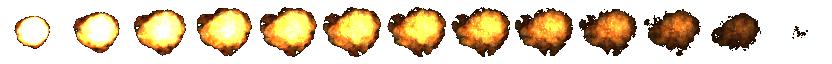
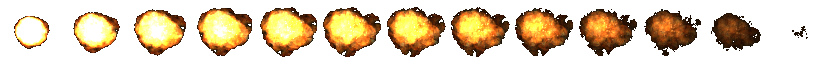
almost rdy

diff --git a/EpicGame/src/epicgame/EpicGame.java b/EpicGame/src/epicgame/EpicGame.java
@@ -10,6 +10,7 @@ import java.awt.image.BufferStrategy;
 import java.awt.image.BufferedImage;
 import java.io.File;
 import java.io.IOException;
+import java.util.Random;
 import java.util.logging.Level;
 import java.util.logging.Logger;
 import javax.imageio.ImageIO;
@@ -21,7 +22,7 @@ public class EpicGame extends Canvas implements Runnable {
     public volatile boolean running=false;
     public int update_count;
     
-    public static final int Widht=1200;
+    public static final int Widht=1024;
     public static final int Height=(Widht*9)/16;
    
   
@@ -30,7 +31,7 @@ public class EpicGame extends Canvas implements Runnable {
     static public JFrame frame;
     
 
-    private int max_player_ammo=5;
+    private int max_player_ammo=10;
     private int max_ast_count=3;
     private int max_exp_count=50;
     
@@ -45,8 +46,6 @@ public class EpicGame extends Canvas implements Runnable {
     int br=0;
     int delay=0;
     
-    //BufferedImage ExplosionFrame = new BufferedImage(Widht,Height, BufferedImage.TYPE_INT_RGB);
-            
     
     public static int score=0;
     
@@ -87,27 +86,22 @@ public class EpicGame extends Canvas implements Runnable {
         BufferedImage explosion_image=new BufferedImage(100,100, BufferedImage.TYPE_INT_RGB);
         
         try {
+            
             Background = ImageIO.read(new File("images\\background.jpg"));
-            player_image = ImageIO.read(new File("images\\player.jpg"));
+            player_image = ImageIO.read(new File("images\\player.png"));
             laser_image = ImageIO.read(new File("images\\projectile.png"));
-            asteroid_image = ImageIO.read(new File("images\\asteroid.jpg"));
+            asteroid_image = ImageIO.read(new File("images\\ast.png"));
             explosion_image = ImageIO.read(new File("images\\Splosion.png"));
            
         } catch (IOException ex) {
             Logger.getLogger(EpicGame.class.getName()).log(Level.SEVERE, null, ex);
         }
         
-        player=new Player(0,0,100,100,560,300,1,1,5,player_image);      
+        player=new Player(0,0,80,80,100,100,30,4,max_player_ammo,player_image);      
         
-        //int x,int y,int w,int h,int image_w,int image_h, int delay,int frames,int max_ammo,BufferedImage image)
-        
-        
-        
-        lasers=new Lasers(player.max_ammo,player.w/3,player.h/3,256,256,1,1,player,laser_image);
-        
-        rocks=new Rocks(max_ast_count,100,100,259,149,2,2,asteroid_image);
-        
-        explosions=new Explosions(max_exp_count,100,100,64,64,60,13,explosion_image);
+        lasers=new Lasers(player.max_ammo,55,20,55,20,30,7,player,laser_image);
+        rocks=new Rocks(max_ast_count,100,100,64,64,30,64,asteroid_image);
+        explosions=new Explosions(max_exp_count,100,100,64,64,30,13,explosion_image);
     }
     
     
@@ -127,6 +121,8 @@ public class EpicGame extends Canvas implements Runnable {
                
         //Controls handling
         //Player movement
+        player.update(0,0);
+        
         if (input.up.is_pressed())
         {
             player.update(0,-1); 
@@ -153,11 +149,12 @@ public class EpicGame extends Canvas implements Runnable {
             lasers.spawn_laser();
         }
         
-  //      if(update_count%200==0)
-//            rocks.spawn_rock();
+        Random r=new Random();
+        if(update_count%200==0)
+            rocks.spawn_rock(1000,r.nextInt(800) );
 
         lasers.advance_lasers();
-        rocks.advance_rocks();
+        rocks.update();
         explosions.update();
         
         detect_laser_rock_collision();
@@ -187,6 +184,7 @@ public class EpicGame extends Canvas implements Runnable {
        
         //BACKGROUND
         a.drawImage(Background, 0, 0, frame.getWidth(), frame.getHeight(),null);
+        //a.drawImage(rocks.image, 0, 0, 4000, 64,null);
         a.setColor(Color.yellow);
        
         //Painting important stuff
@@ -194,6 +192,8 @@ public class EpicGame extends Canvas implements Runnable {
         lasers.paint(a);
         rocks.paint(a);
         explosions.paint(a);
+        
+            
         
          //TEXT AND STUFF 
         a.setFont(new Font("serif",10,40));
@@ -244,6 +244,7 @@ public class EpicGame extends Canvas implements Runnable {
             {
                 updates++;
                 update();
+               
                 delta--; 
             }
             

diff --git a/EpicGame/src/epicgame/Rocks.java b/EpicGame/src/epicgame/Rocks.java
@@ -12,12 +12,13 @@ import java.util.Random;
  * @author Peter
  */
 public class Rocks extends Collection_Of_Space_Objects {
+
     
         
     Rocks(int max_count,int w,int h,int image_w,int image_h, int delay,int frames,BufferedImage image)
     {
         this.max_count=max_count;
-        m=new Projectile[max_count];
+        m=new Asteroid[max_count];
         
         this.w=w;
         this.h=h;
@@ -31,38 +32,42 @@ public class Rocks extends Collection_Of_Space_Objects {
         this.image=image;
     }
     
-   
-    public void spawn_rock()
+    private int get_free_rock()
     {
-        int i=get_free_object_index();
+        int i;
         
-        Random r=new Random();
+        for( i=0;i<max_count;i++)
+            if(m[i]==null)
+                break;
         
+        if(i==max_count)
+            return -1;
+        
+        else return i;
+        
+        
+    }
+    
+    public void spawn_rock(int x,int y)
+    {
+        int i=get_free_rock();
         if(i!=-1)
         {
-            m[i]=new Asteroid(EpicGame.Widht+100, r.nextInt(EpicGame.Height), w, h, image_w, image_h, delay, frames, image);
+            m[i]=new Asteroid(x, y, w, h, image_w, image_h, delay, frames, image);
         }
     }
     
     
-    public void advance_rocks()
+    public void update()
     {
-        int i;
-        int n=max_count;
-    
-         for(i=0;i<n;i++)
-       {
+        for(int i=0;i<max_count;i++)
             if(m[i]!=null)
-            {   
-                m[i].update(1,0);
-                
-                if(m[i].x > EpicGame.Widht + 1000)
-                {
+            {
+                m[i].update(-1,0);
+                if(m[i].x<0)
                     m[i]=null;
-                }
-            }
-       }
-    } 
-    }  
+            }   
+    }
+}  
     
 

diff --git a/EpicGame/src/epicgame/Explosions.java b/EpicGame/src/epicgame/Explosions.java
@@ -11,26 +11,14 @@ import java.awt.image.BufferedImage;
  *
  * @author Peter
  */
-public class Explosions {
+public class Explosions extends Collection_Of_Space_Objects{
     
-    public Explosion m[];
-    int e_count;
     
-    public int w,h;
     
-    public int image_w,image_h;
-    
-    protected BufferedImage image;
-    
-    int counter=0;
-    int frames;
-    int br=0;
-    int delay;
-    
-    Explosions(int e_count,int w,int h,int image_w,int image_h, int delay,int frames,BufferedImage image)
+    Explosions(int max_count,int w,int h,int image_w,int image_h, int delay,int frames,BufferedImage image)
     {
-        this.e_count=e_count;
-        m=new Explosion[e_count];
+        this.max_count=max_count;
+        m=new Explosion[max_count];
         
         this.w=w;
         this.h=h;
@@ -48,11 +36,11 @@ public class Explosions {
     {
         int i;
         
-        for( i=0;i<e_count;i++)
+        for( i=0;i<max_count;i++)
             if(m[i]==null)
                 break;
         
-        if(i==e_count)
+        if(i==max_count)
             return -1;
         
         else return i;
@@ -69,24 +57,15 @@ public class Explosions {
         }
     }
     
-    public void paint(Graphics a)
-    {
-        for(int i=0;i<e_count;i++)
-            if(m[i]!=null)
-                m[i].paint(a);   
-    }
     
     public void update()
     {
-        for(int i=0;i<e_count;i++)
+        for(int i=0;i<max_count;i++)
             if(m[i]!=null)
             {
-                m[i].update();
-                if(m[i].br==m[i].frames)
+                m[i].update(-1,0);
+                if(m[i].br==m[i].frames-1)
                     m[i]=null;
             }   
     }
-    
-    
-    
 }

diff --git a/EpicGame/src/epicgame/Explosion.java b/EpicGame/src/epicgame/Explosion.java
@@ -7,18 +7,7 @@ import java.awt.image.BufferedImage;
  *
  * @author Peter
  */
-public class Explosion {
-    public int x,y;
-    public int w,h;
-    
-    public int image_w,image_h;
-    
-    protected BufferedImage image;
-    
-    int counter=0;
-    int frames;
-    int br=0;
-    int delay;
+public class Explosion extends Space_Object{
     
     Explosion (int x,int y,int w,int h,int image_w,int image_h, int delay,int frames,BufferedImage image)
     {
@@ -37,18 +26,6 @@ public class Explosion {
         this.image=image;
     }
     
-    public void update()
-    {
-        if(counter%delay==0)
-            br++;      
-        
-        counter++;
-        counter%=delay;
-    }
-    
-    public void paint(Graphics a)
-    {
-        a.drawImage(image, x, y, x+w, y+h, br*image_w, 0, br*image_w+image_w, image_h, null);
-    }
+   
     
 }

diff --git a/EpicGame/src/epicgame/Lasers.java b/EpicGame/src/epicgame/Lasers.java
@@ -41,7 +41,15 @@ public class Lasers extends Collection_Of_Space_Objects{
         
         if(i!=-1)
         {
-            m[i]=new Projectile(pl.x + pl.w, pl.y + pl.h/2 - h/2, w, h, image_w, image_h, delay, frames, image);
+            m[i]=new Projectile(pl.x + 30, pl.y  , w, h, image_w, image_h, delay, frames, image);
+            pl.current_ammo--;
+        }
+        
+        i=get_free_object_index();
+        
+        if(i!=-1)
+        {
+            m[i]=new Projectile(pl.x + 30 , pl.y +56, w, h, image_w, image_h, delay, frames, image);
             pl.current_ammo--;
         }
     }

diff --git a/EpicGame/src/epicgame/Space_Object.java b/EpicGame/src/epicgame/Space_Object.java
@@ -33,7 +33,10 @@ public abstract class Space_Object {
         y+=offset_y;
             
         if(counter%delay==0)
+        {
             br++;      
+            br%=frames;
+        }
         
         counter++;
         counter%=delay;
@@ -41,7 +44,7 @@ public abstract class Space_Object {
     
     public void paint(Graphics a)
     {
-        a.drawImage(image, x, y, x+w, y+h, br*image_w, 0, br*image_w+image_w, image_h, null);
+        a.drawImage(image, x, y, x + w, y + h, br*image_w, 0, br*image_w+image_w, image_h, null);
     }
     
     
